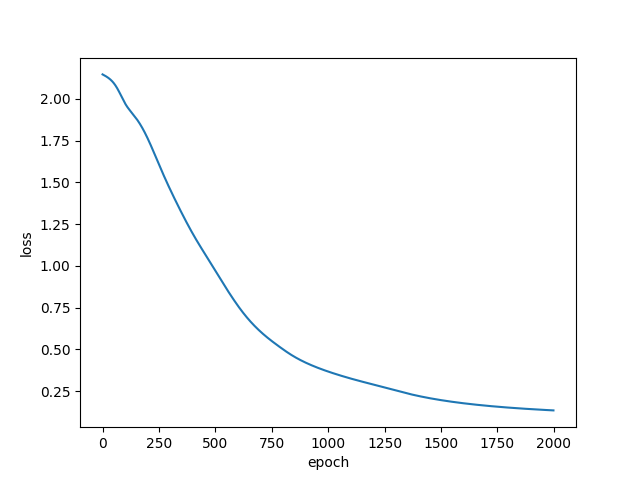
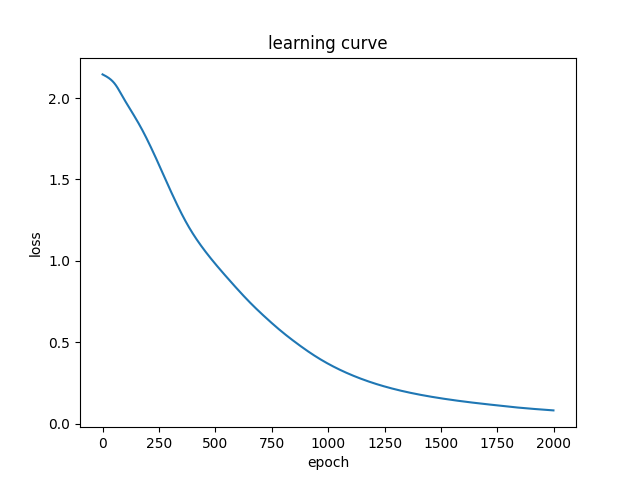
day 3 task 4

diff --git a/SMDL/Day3/lessons/task4/main.py b/SMDL/Day3/lessons/task4/main.py
@@ -140,8 +140,8 @@ if __name__ == '__main__':
     plt.plot(history)
     plt.ylabel('loss')
     plt.xlabel('epoch')
-    plt.savefig('learning_curve.png')
     plt.title('learning curve')
+    plt.savefig('learning_curve.png')
     plt.show()
 
     # save the model weights

diff --git a/SMDL/Day3/lessons/task4/task.md b/SMDL/Day3/lessons/task4/task.md
@@ -1,12 +1,17 @@
 ## Part 4: Training
 
+![training](training.png)
+
 The training process is as follows:
 
-1. Pass the input through the encoder which return encoder output and the encoder hidden state.
-2. The encoder output, encoder hidden state and the decoder input (which is the start token) is passed to the decoder.
-3. The decoder returns the predictions and the decoder hidden state.
-4. The decoder hidden state is then passed back into the model and the predictions are used to calculate the loss.
-5. Use teacher forcing to decide the next input to the decoder. Teacher forcing is the technique where the target word is passed as the next input to the decoder.
-6. The final step is to calculate the gradients and apply it to the optimizer and do backpropagation.
+1. Pass the **sequence input** and **previous (batch) encoder hidden state** through the encoder which returns the **encoded output** and the **encoder hidden state**.
+2. Use "Teacher Forcing" to decide the next input to the decoder. Teacher Forcing is the technique where each target token is passed as the input to the decoder.
+    a. The **encoded output**, **encoder hidden state** and the **decoder input** (which is each target token) is passed to the decoder.
+    b. The decoder returns the predictions and the decoder hidden state.
+    c. The decoder hidden state is then passed back into the model and the predictions are used to calculate the loss.
+4. The overall loss is summed up across all target tokens, and used to calculate the gradients for backpropagation of the encoder and decoder weights.
+
+![learning_curve](learning_curve.png)
+
 
 [Reference](https://www.tensorflow.org/tutorials/text/nmt_with_attention)
